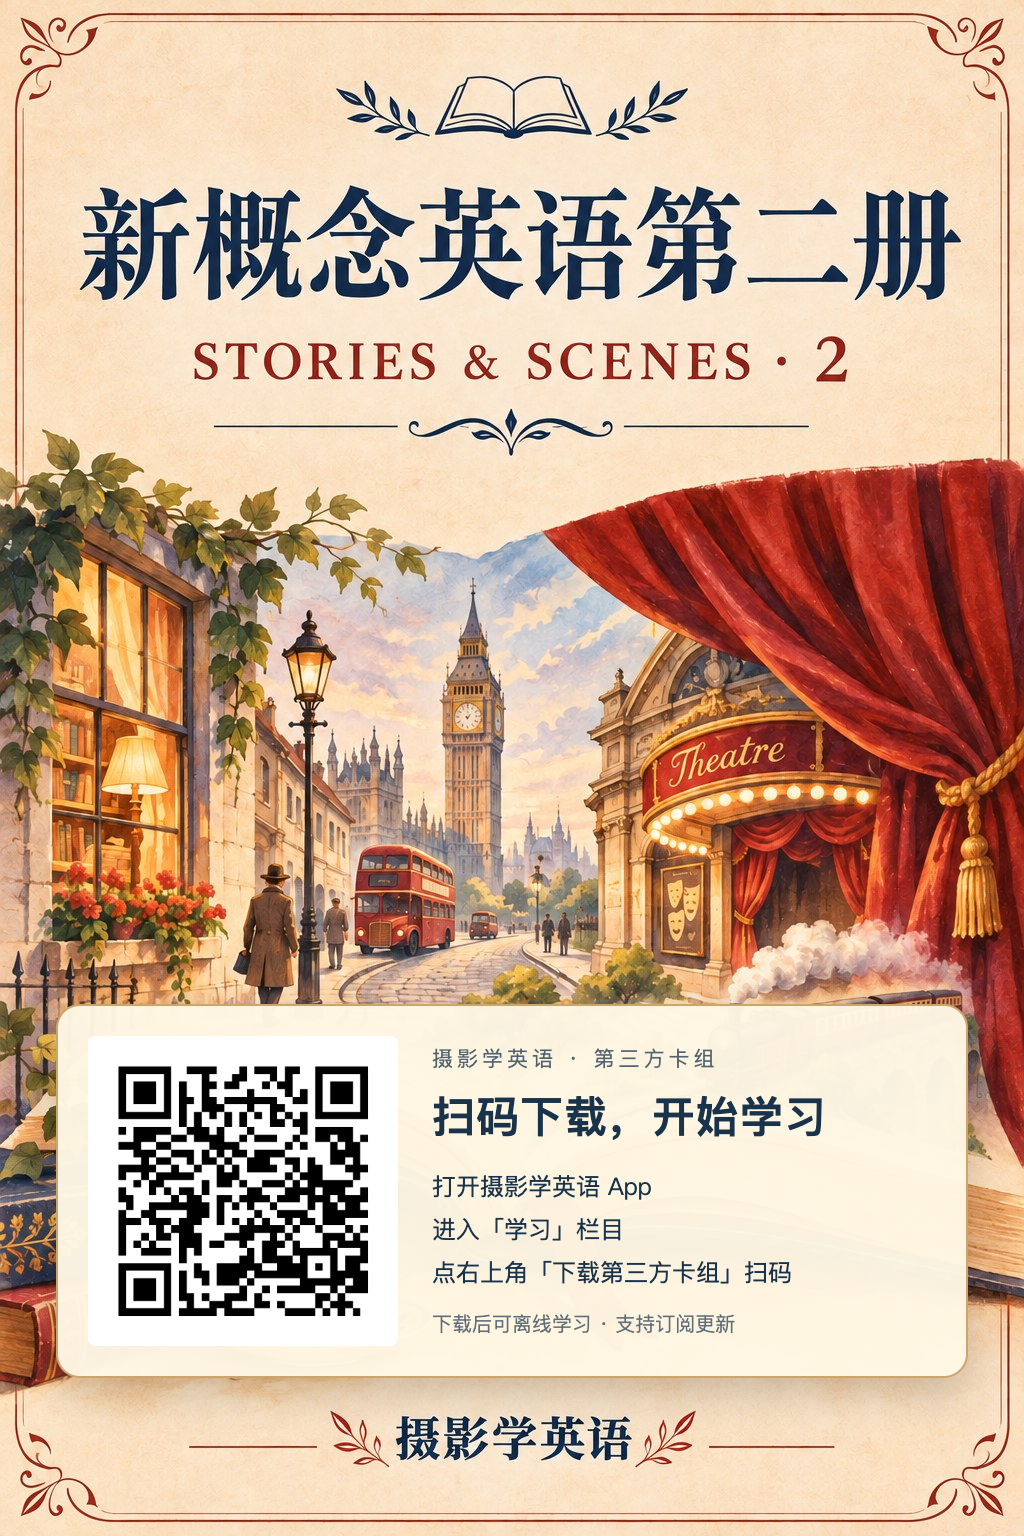
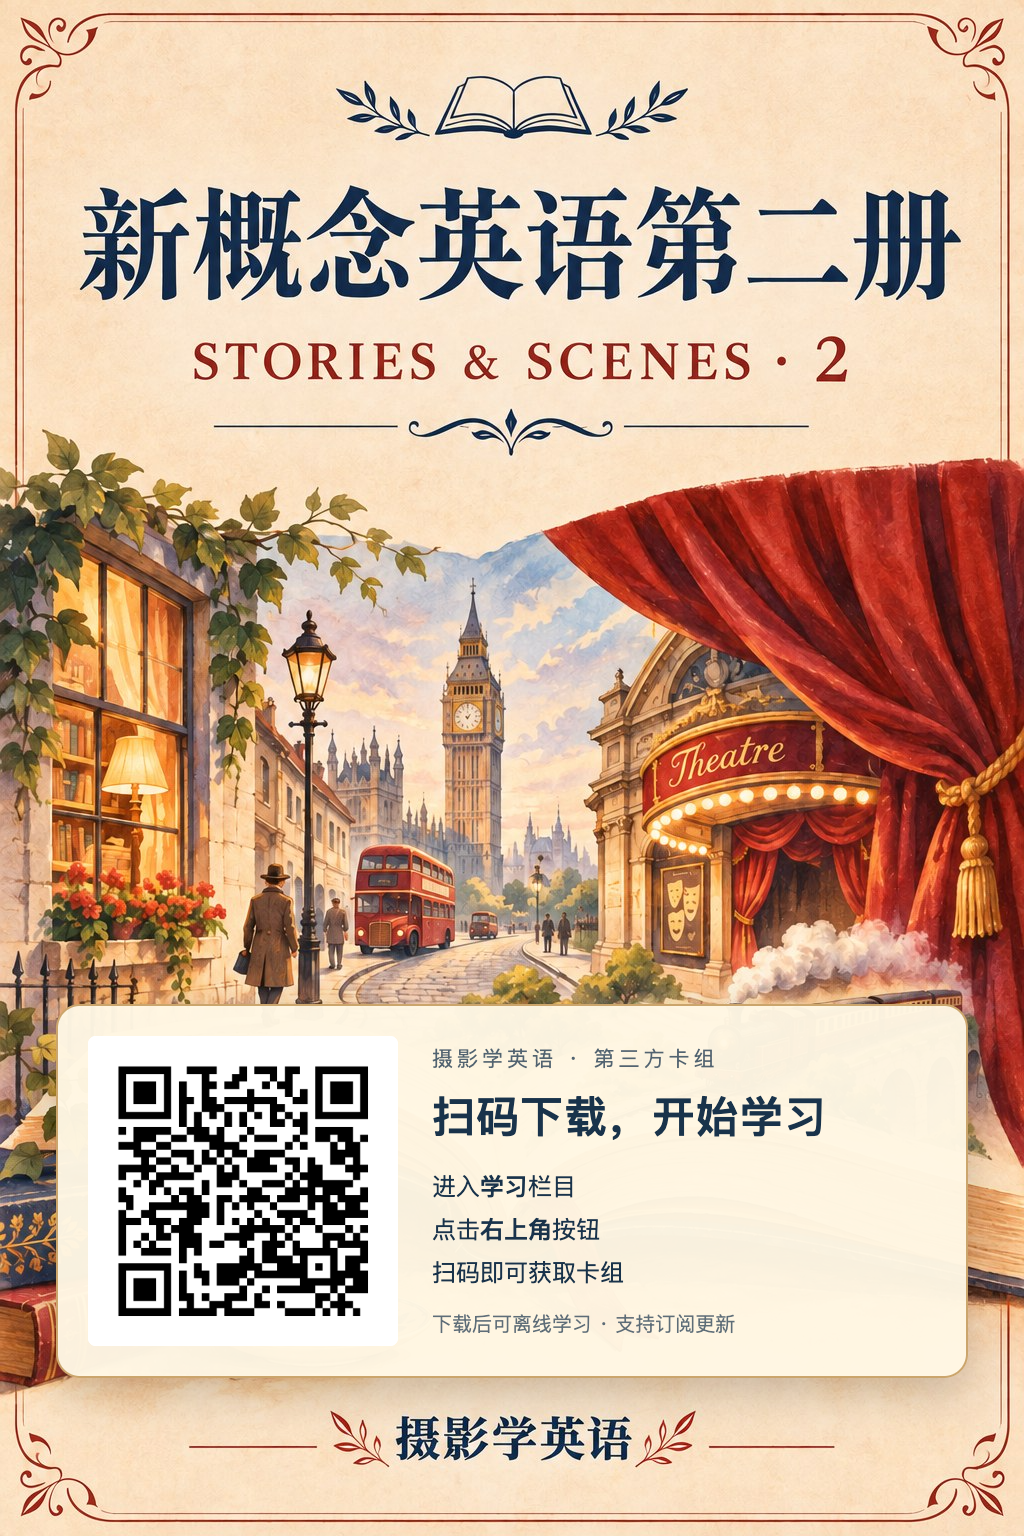
Clarify QR poster directions and emphasize learning and upper-right entry

Changed region(s): [[0.4062, 0.75, 0.7812, 0.8438]]

diff --git a/memory/2026-11-04.md b/memory/2026-11-04.md
@@ -243,3 +243,6 @@
 - 验证：200 项单元、桌面 Chrome/移动 WebKit 共4项二维码页回归通过，TypeScript/Vite构建通过。发现并修复长URL手机横向溢出。Apple Vision真实解码两张原码和两张成品，1024/512宽共8项全部还原准确的原始feed URL。生成器没有请求第三方来源，非法URL不生成下载图。发布指南样例实跑生成1卡6词清单。真机相机采集由原生任务另行验收。
 - 路由：架构沿用TypeSafe脱敏Choice的Codex结果；Pi文档整理在配置锁沙箱失败后外部重试仍Connection error，Codex接手。此前未部署的系统唤醒文件已移除，服务器/Apple能力未修改。
 - 状态：源码、文档与图片完成，本条写入时尚未推送或部署。保留本任务编译/预览供最后核验；共享dist及其他正在运行任务不清理。
+
+- 交付补记：源码及协议提交98151f79c66814e320440f0cc7a2ae113fdc8055已推送并回查origin/main。国内二维码页已上线 `/piclex-web/subscribe/`，在现有1079文件基线上仅增加独立页面及3个依赖；新release98151f79c668-ece2fa2cbfd1，旧releasef4af20256a91-50f7c95598c0保留回滚。1083文件哈希、隔离Nginx及公网4文件哈希/健康检查通过，Nginx配置摘要不变。
+- 最终封面文案按用户最新要求改为“进入学习栏目，点击右上角按钮，扫码即可获取卡组”，学习与右上角加粗；不再写可能变化的按钮名称。两张最终成品再次通过1024/512像素宽真实Vision解码，二维码URL未变化。

diff --git a/docs/subscription-qr/README.md b/docs/subscription-qr/README.md
@@ -1,6 +1,6 @@
 # 卡组订阅分享图
 
-在摄影学英语 App 的学习页，打开右上角「下载第三方卡组」，用弹窗内的正方形窗口扫码。二维码只包含下表中的普通 URL，不需要系统相机唤醒。
+在摄影学英语 App 的学习页，点击右上角按钮，用弹窗内的正方形窗口扫码。二维码只包含下表中的普通 URL，不需要系统相机唤醒。
 
 | 卡组 | 原始订阅地址 | 分享图 | 纯二维码 |
 | --- | --- | --- | --- |
